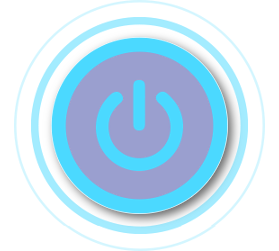
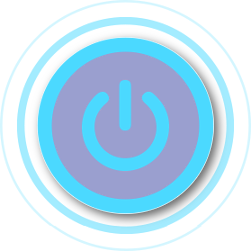
Fix measure button style

diff --git a/src/app/pages/home/home.page.scss b/src/app/pages/home/home.page.scss
@@ -37,6 +37,10 @@
     margin: auto;
     /deep/button {
       height: auto;
+      padding: 0;
+      margin: 0;
+      border-radius: 50%;
+      background-color: transparent;
     }
   }
 }
